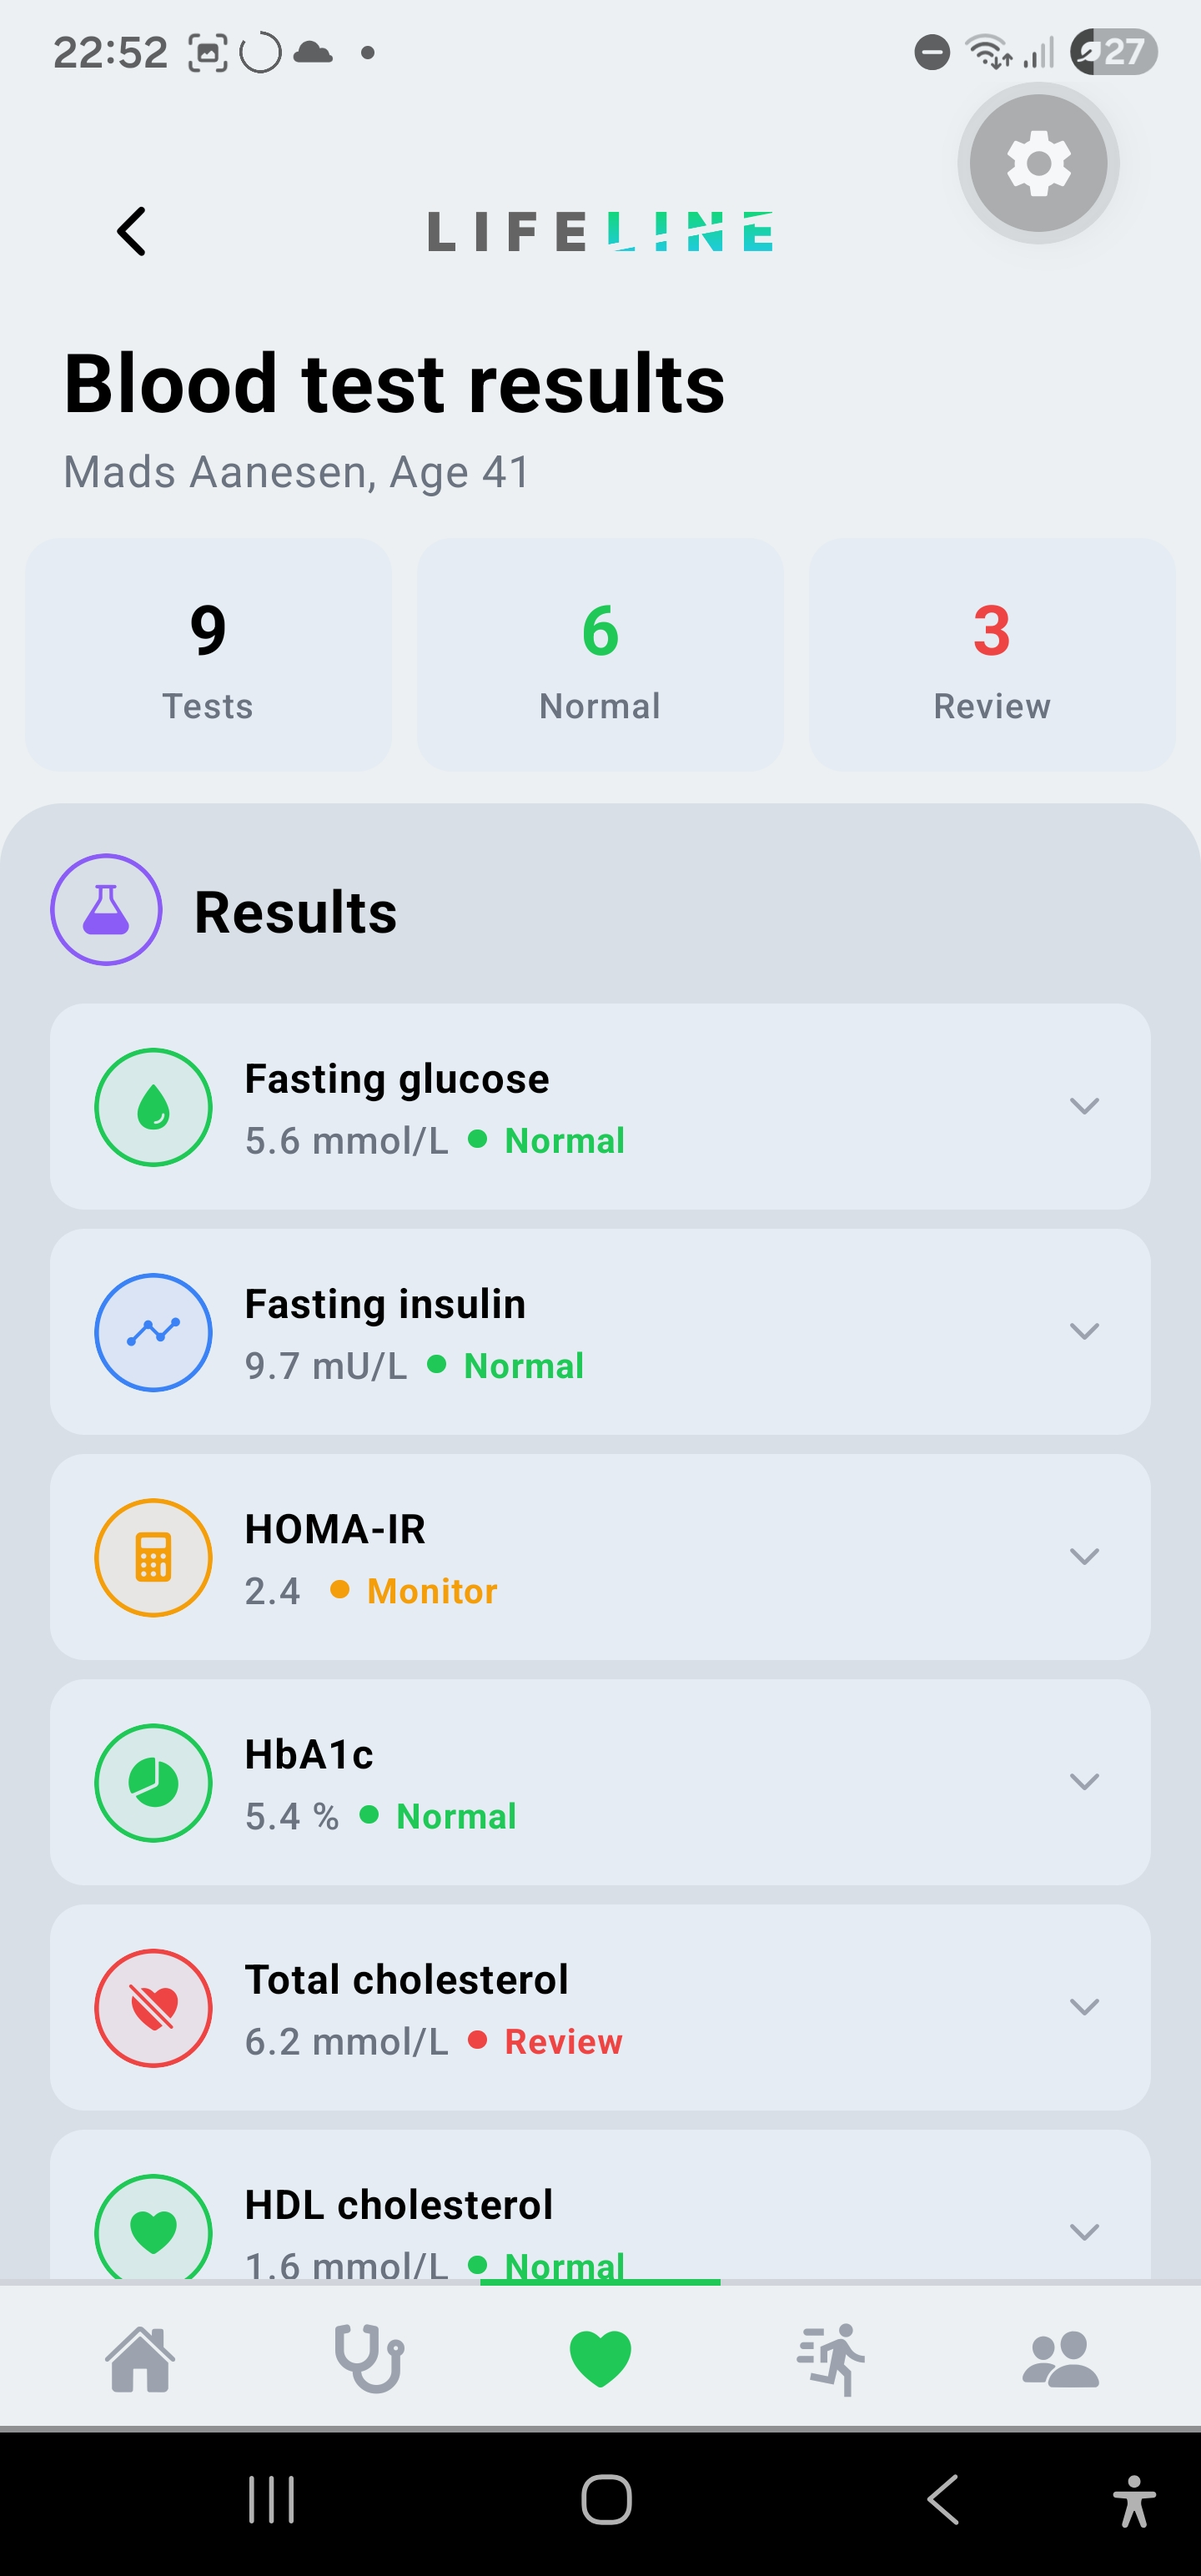
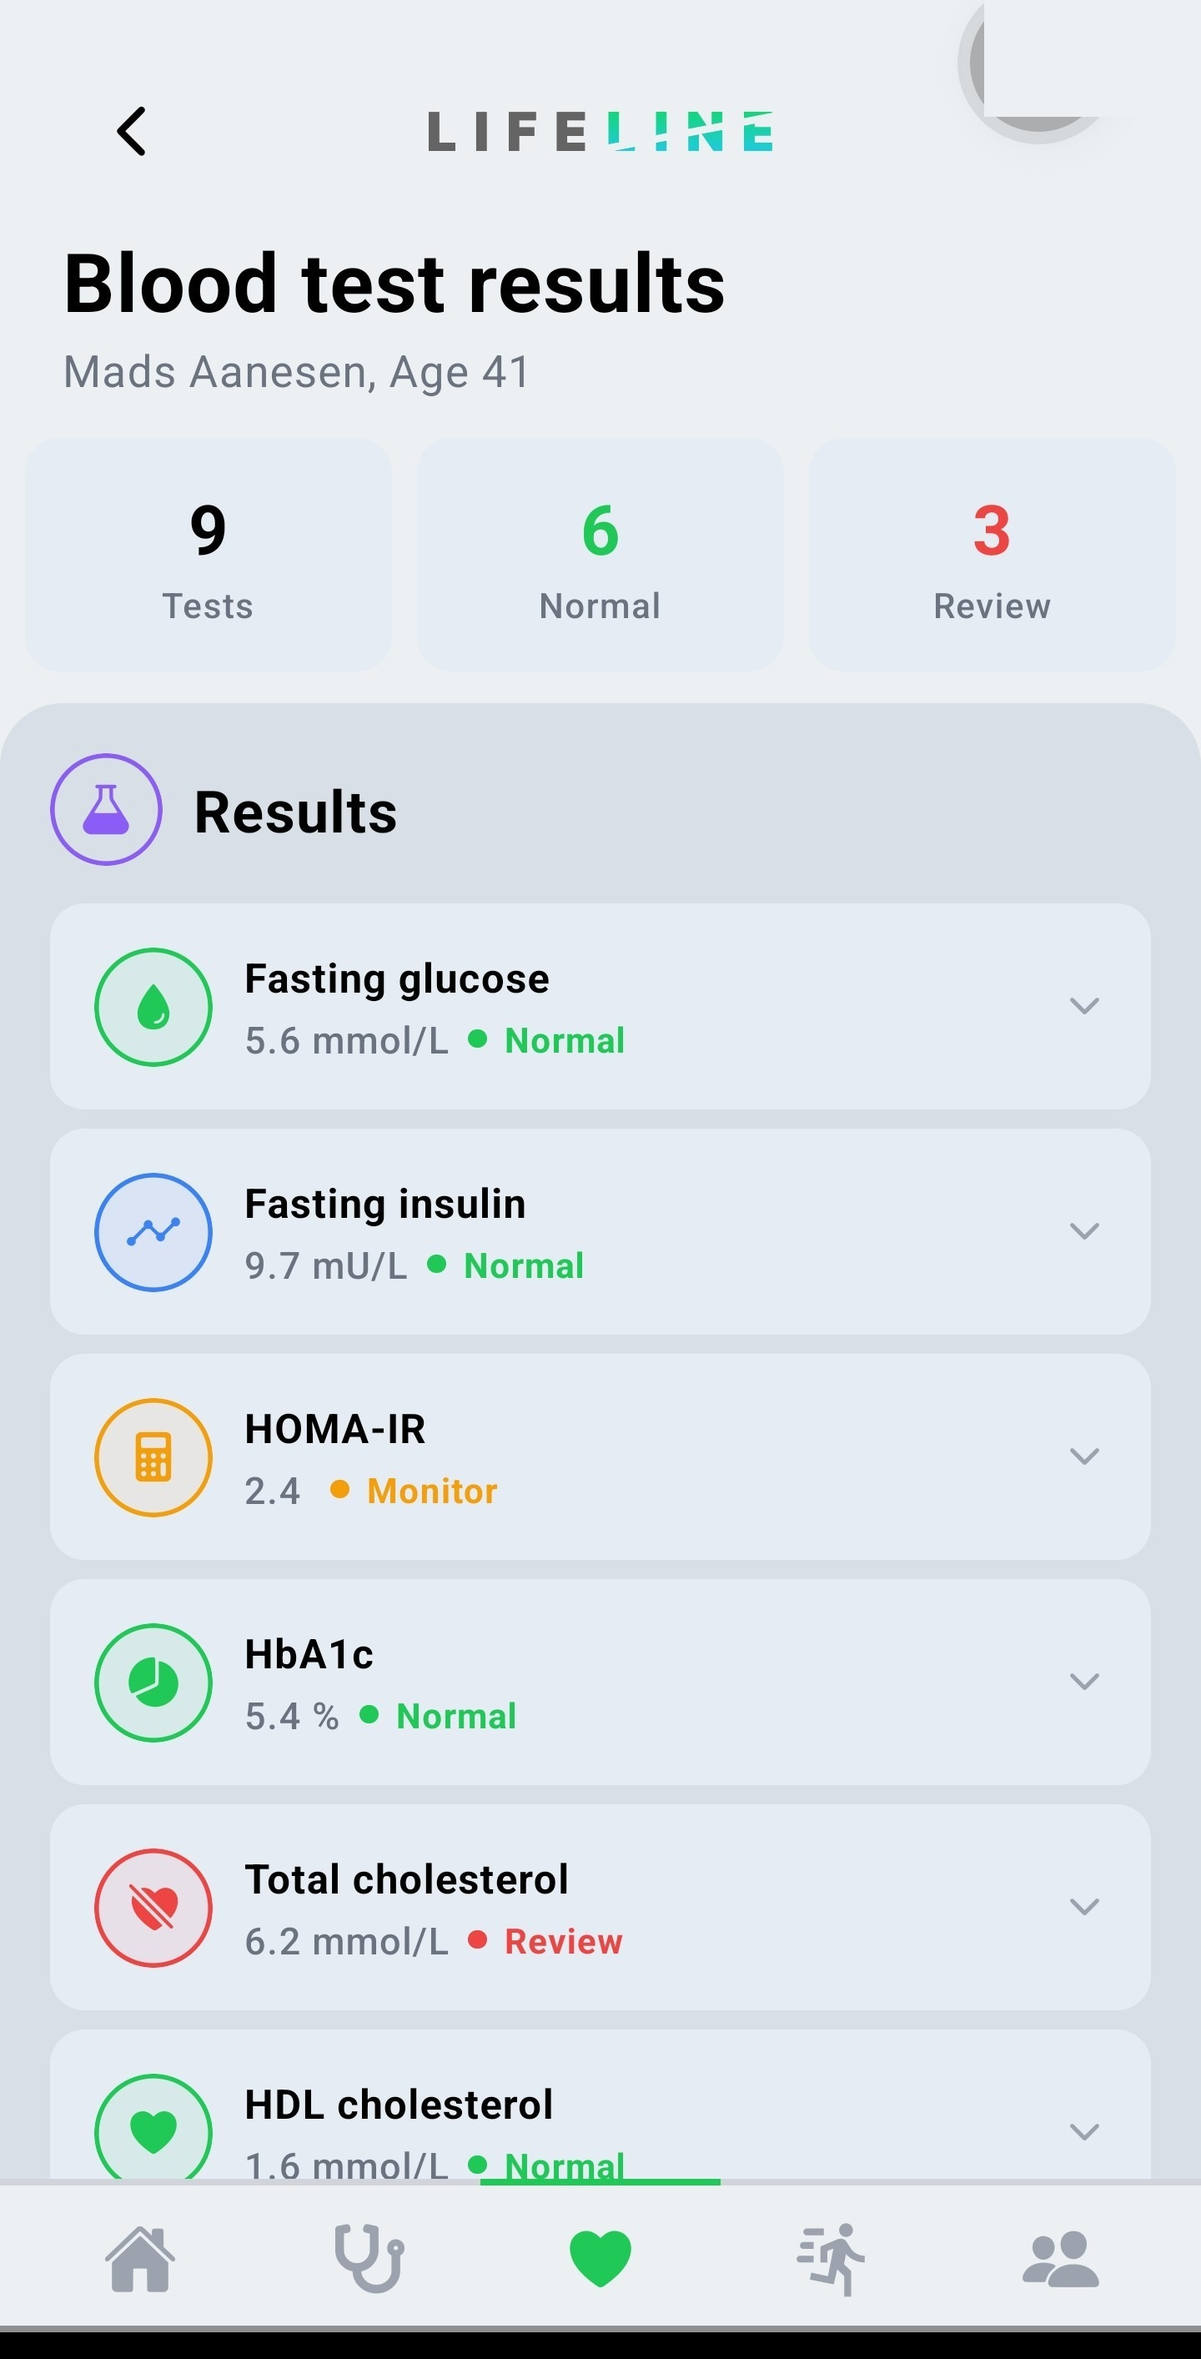
Static phone mockups with real screenshots, strategic placement
- Remove carousel, use static PhoneMockup with configurable screenshot prop
- Home page: daily actions screenshot
- Coaching page: coach messaging screenshot
- Assessment page: new "Your results, explained" section with health report screenshot
- Crop status bar and nav bar from all screenshots
- Shift images left to clip settings gear icon via phone frame overflow

diff --git a/src/app/components/PhoneMockup.tsx b/src/app/components/PhoneMockup.tsx
@@ -1,92 +1,54 @@
 "use client";
 
-import { useState, useEffect } from "react";
 import Image from "next/image";
 
-const screenshots = [
-  { src: "/app-screenshot-home.jpg", label: "Daily Actions" },
-  { src: "/app-screenshot-health.jpg", label: "Health Overview" },
-  { src: "/app-screenshot-coach.jpg", label: "Coach Messaging" },
-  { src: "/app-screenshot-report.jpg", label: "Health Report" },
-  { src: "/app-screenshot-community.jpg", label: "Community" },
-  { src: "/app-screenshot-blood.jpg", label: "Blood Results" },
-];
+interface PhoneMockupProps {
+  screenshot?: string;
+  alt?: string;
+}
 
-export function PhoneMockup({ autoPlay = true }: { autoPlay?: boolean }) {
-  const [current, setCurrent] = useState(0);
-
-  useEffect(() => {
-    if (!autoPlay) return;
-    const timer = setInterval(() => {
-      setCurrent((prev) => (prev + 1) % screenshots.length);
-    }, 4000);
-    return () => clearInterval(timer);
-  }, [autoPlay]);
-
+export function PhoneMockup({
+  screenshot = "/app-screenshot-home.jpg",
+  alt = "Lifeline Health app"
+}: PhoneMockupProps) {
   return (
-    <div className="flex flex-col items-center gap-4">
-      <div className="relative w-[280px] h-[580px]">
-        {/* Phone frame */}
-        <div className="absolute inset-0 bg-[#1a1a1a] rounded-[3rem] shadow-2xl border border-[#333]" />
-        {/* Inner bezel */}
-        <div className="absolute inset-[3px] bg-[#111] rounded-[2.85rem]" />
-        {/* Screen with real screenshot */}
-        <div className="absolute inset-[4px] rounded-[2.8rem] overflow-hidden bg-[#ecf0f3]">
-          {/* Subtle reflection overlay */}
-          <div
-            className="absolute inset-0 z-30 pointer-events-none"
-            style={{
-              background: "linear-gradient(135deg, rgba(255,255,255,0.08) 0%, transparent 40%, transparent 60%, rgba(255,255,255,0.03) 100%)",
-            }}
-          />
-
-          {/* Dynamic Island notch */}
-          <div className="absolute top-2 left-1/2 -translate-x-1/2 w-24 h-[22px] bg-black rounded-full z-20 flex items-center justify-center">
-            <div className="w-2.5 h-2.5 rounded-full bg-[#1a1a1a] border border-[#333] ml-6" />
-          </div>
-
-          {/* Screenshot image */}
-          <Image
-            src={screenshots[current].src}
-            alt={screenshots[current].label}
-            fill
-            className="object-cover object-top transition-opacity duration-500"
-            sizes="280px"
-            priority={current === 0}
-          />
+    <div className="relative w-[280px] h-[580px]">
+      {/* Phone frame */}
+      <div className="absolute inset-0 bg-[#1a1a1a] rounded-[3rem] shadow-2xl border border-[#333]" />
+      {/* Inner bezel */}
+      <div className="absolute inset-[3px] bg-[#111] rounded-[2.85rem]" />
+      {/* Screen with real screenshot */}
+      <div className="absolute inset-[4px] rounded-[2.8rem] overflow-hidden bg-[#ecf0f3]">
+        {/* Subtle reflection */}
+        <div
+          className="absolute inset-0 z-30 pointer-events-none"
+          style={{
+            background: "linear-gradient(135deg, rgba(255,255,255,0.08) 0%, transparent 40%, transparent 60%, rgba(255,255,255,0.03) 100%)",
+          }}
+        />
+        {/* Dynamic Island */}
+        <div className="absolute top-2 left-1/2 -translate-x-1/2 w-24 h-[22px] bg-black rounded-full z-20 flex items-center justify-center">
+          <div className="w-2.5 h-2.5 rounded-full bg-[#1a1a1a] border border-[#333] ml-6" />
         </div>
-
-        {/* Side button (power) */}
-        <div className="absolute -right-[2px] top-28 w-[3px] h-12 bg-[#333] rounded-r-sm" />
-        {/* Volume buttons */}
-        <div className="absolute -left-[2px] top-24 w-[3px] h-7 bg-[#333] rounded-l-sm" />
-        <div className="absolute -left-[2px] top-36 w-[3px] h-7 bg-[#333] rounded-l-sm" />
+        {/* Screenshot - shifted left to clip settings icon */}
+        <Image
+          src={screenshot}
+          alt={alt}
+          fill
+          className="object-cover"
+          style={{ objectPosition: "left top" }}
+          sizes="280px"
+          priority
+        />
       </div>
-
-      {/* Dot indicators */}
-      <div className="flex items-center gap-2">
-        {screenshots.map((s, i) => (
-          <button
-            key={s.label}
-            onClick={() => setCurrent(i)}
-            className={`transition-all duration-300 rounded-full ${
-              i === current
-                ? "w-6 h-2 bg-[#20c858]"
-                : "w-2 h-2 bg-gray-300 hover:bg-gray-400"
-            }`}
-            aria-label={s.label}
-          />
-        ))}
-      </div>
-
-      {/* Current screen label */}
-      <p className="text-xs text-[#6B7280] font-medium">
-        {screenshots[current].label}
-      </p>
+      {/* Side buttons */}
+      <div className="absolute -right-[2px] top-28 w-[3px] h-12 bg-[#333] rounded-r-sm" />
+      <div className="absolute -left-[2px] top-24 w-[3px] h-7 bg-[#333] rounded-l-sm" />
+      <div className="absolute -left-[2px] top-36 w-[3px] h-7 bg-[#333] rounded-l-sm" />
     </div>
   );
 }
 
-// Alias exports for different pages
+// Named export for coaching page
 export const PhoneMockupCoach = PhoneMockup;
 export default PhoneMockup;

diff --git a/src/app/assessment/page.tsx b/src/app/assessment/page.tsx
@@ -2,6 +2,7 @@
 
 import { useState } from "react";
 import MedaliaButton from "../components/MedaliaButton";
+import { PhoneMockup } from "../components/PhoneMockup";
 
 const packages = [
   {
@@ -365,8 +366,37 @@ export default function AssessmentPage() {
         </div>
       </section>
 
-      {/* Locations */}
+      {/* Results preview */}
       <section className="py-24 sm:py-28 bg-white">
+        <div className="max-w-7xl mx-auto px-4 sm:px-6 lg:px-8">
+          <div className="grid grid-cols-1 lg:grid-cols-2 gap-16 items-center">
+            <div>
+              <h2 className="text-3xl sm:text-4xl font-bold text-[#1F2937] mb-6">
+                Your results, <span className="text-[#20c858]">explained</span>
+              </h2>
+              <p className="text-lg text-[#6B7280] mb-6 leading-relaxed">
+                After your assessment, receive a comprehensive health report with scores across all key health categories. Your doctor reviews every result and meets with you to discuss findings and next steps.
+              </p>
+              <ul className="space-y-3">
+                {["Health score across 6 categories", "Blood test results with clinical context", "Body composition breakdown", "Personalised recommendations", "Direct access in the Lifeline app"].map((item) => (
+                  <li key={item} className="flex items-center gap-3 text-sm text-[#6B7280]">
+                    <svg className="w-5 h-5 text-[#20c858] flex-shrink-0" fill="none" stroke="currentColor" viewBox="0 0 24 24">
+                      <path strokeLinecap="round" strokeLinejoin="round" strokeWidth={2} d="M5 13l4 4L19 7" />
+                    </svg>
+                    {item}
+                  </li>
+                ))}
+              </ul>
+            </div>
+            <div className="flex justify-center">
+              <PhoneMockup screenshot="/app-screenshot-report.jpg" alt="Health report in the app" />
+            </div>
+          </div>
+        </div>
+      </section>
+
+      {/* Locations */}
+      <section className="py-24 sm:py-28 bg-[#ecf0f3]">
         <div className="max-w-7xl mx-auto px-4 sm:px-6 lg:px-8">
           <div className="grid grid-cols-1 lg:grid-cols-2 gap-16">
             <div>

diff --git a/src/app/coaching/page.tsx b/src/app/coaching/page.tsx
@@ -631,7 +631,7 @@ export default function CoachingPage() {
             </div>
             {/* Phone mockup */}
             <div className="flex items-center justify-center">
-              <PhoneMockupCoach />
+              <PhoneMockupCoach screenshot="/app-screenshot-coach.jpg" alt="Coach messaging" />
             </div>
           </div>
         </div>
